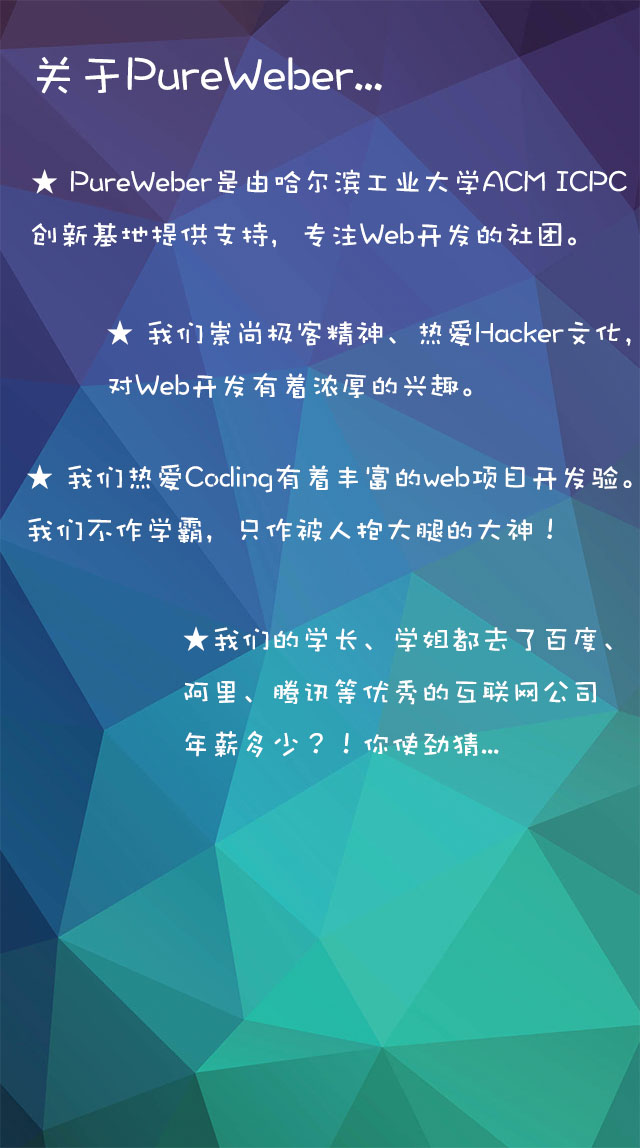
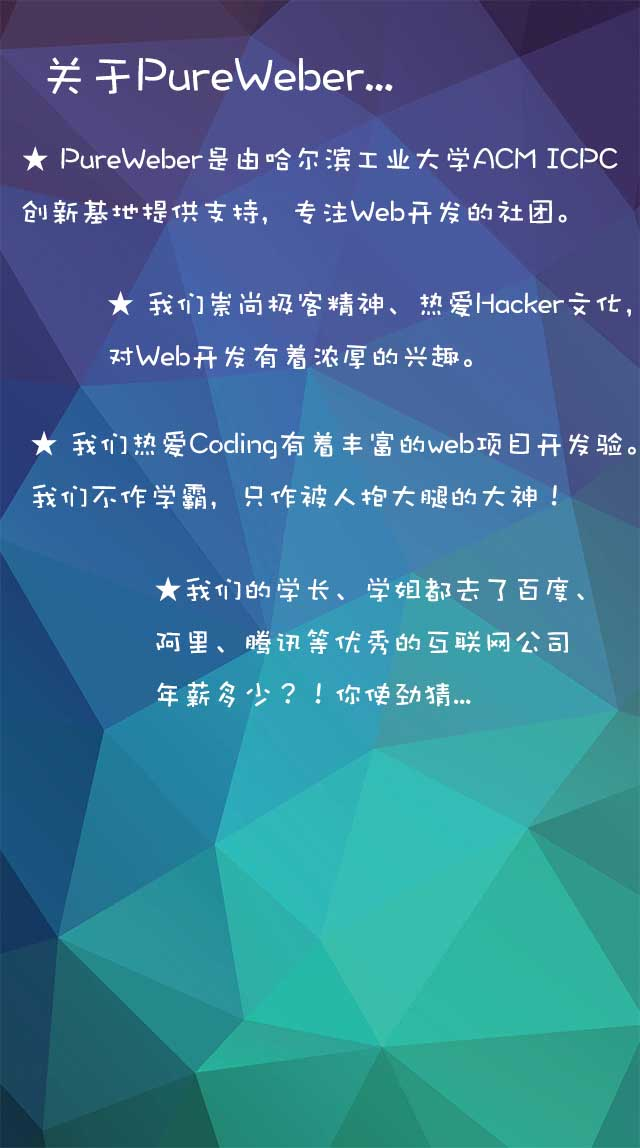
上线

diff --git a/build/index.html b/build/index.html
@@ -10,19 +10,19 @@
 <body>  
     <div id="pt-main" class="pt-perspective">
       <div class="pt-page pt-page-1">
-        <div><img class="index" src="./assets/images/index.jpg" /></div>
+        <div><img class="index" src="./assets/images/index.jpg"/></div>
         <span class="page-arrow"></span>
       </div>
       <div class="pt-page pt-page-2">
-        <div><img class="about" src="./assets/images/about.jpg" /></div>
+        <div><img class="about" src="./assets/images/about.jpg"/></div>
         <span class="page-arrow"></span>
       </div>
       <div class="pt-page pt-page-3">
-        <div><img class="inspects" src="./assets/images/inspects.jpg" /></div>
+        <div><img class="inspects" src="./assets/images/inspects.jpg"/></div>
         <span class="page-arrow"></span>
       </div>
       <div class="pt-page pt-page-4">
-        <div><img class="join" src="./assets/images/join_us.jpg" /></div>
+        <div><img class="join" src="./assets/images/join_us.jpg"/></div>
       </div>
     </div>
 

diff --git a/build/assets/css/style.css b/build/assets/css/style.css
@@ -429,7 +429,10 @@ a:hover {
 
 /*images*/
 .index, .about, .inspects, .join{
-  width: 320px;
-  height: 576px;
+  width: 100%;
+  height: 100%;
+  background-size: 100%;
   z-index: 98;
 }
+
+

diff --git a/assets/css/index.css b/assets/css/index.css
@@ -47,7 +47,10 @@
 
 /*images*/
 .index, .about, .inspects, .join{
-  width: 320px;
-  height: 576px;
+  width: 100%;
+  height: 100%;
+  background-size: 100%;
   z-index: 98;
 }
+
+
